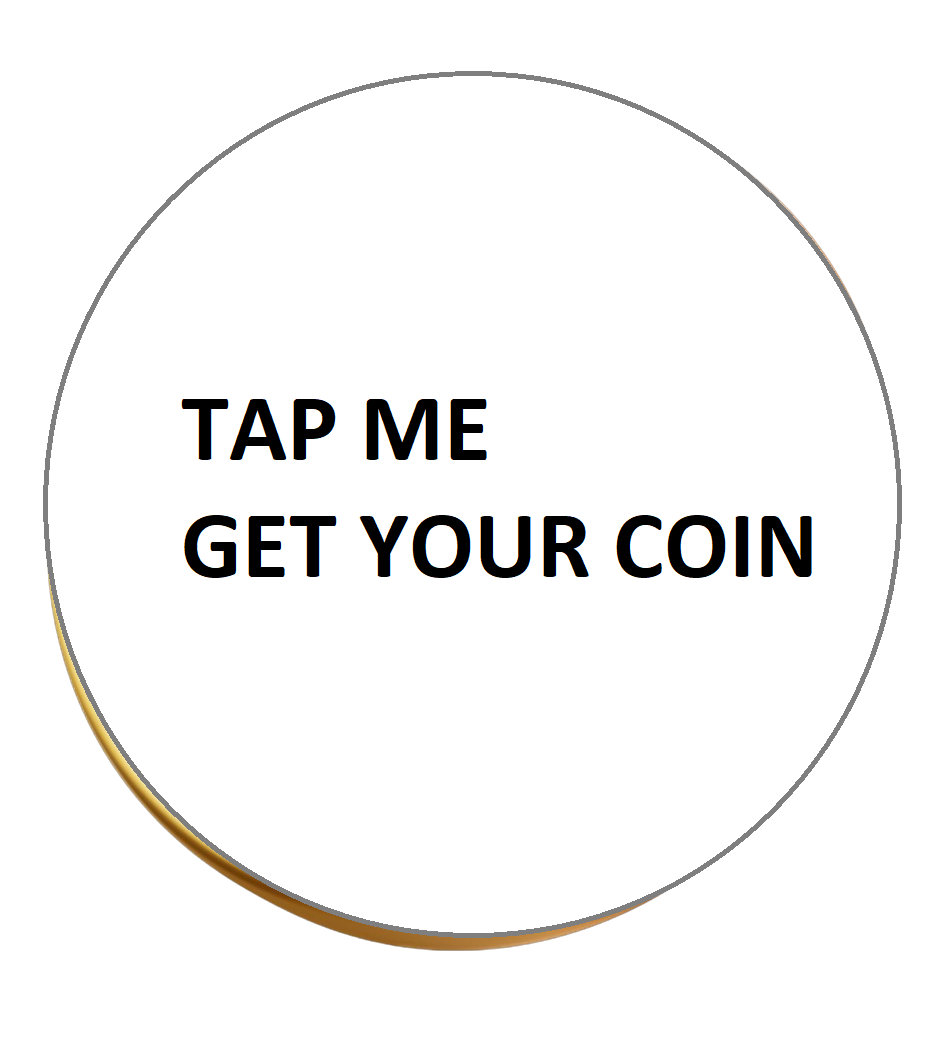
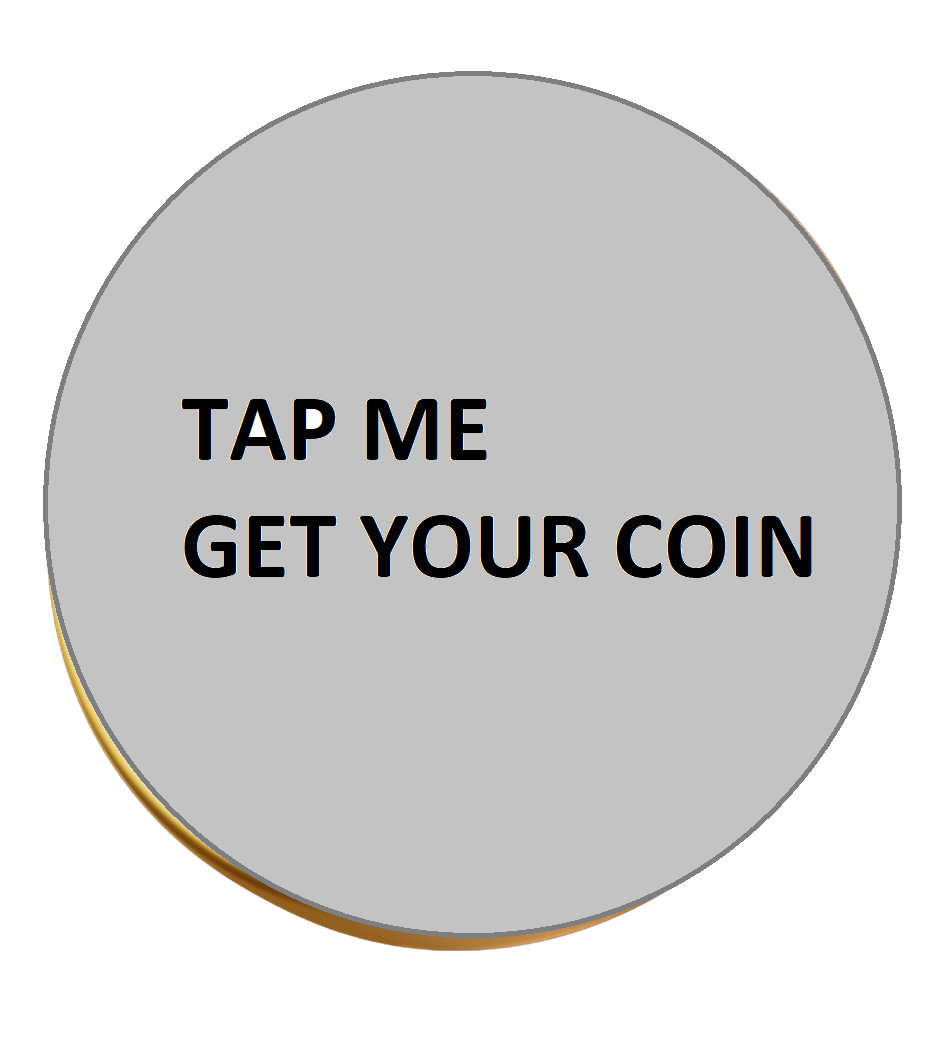
update

diff --git a/src/pages/TapHome.js b/src/pages/TapHome.js
@@ -2,7 +2,7 @@ import React, { useState, useEffect, useRef, useContext } from "react";
 import styled, { keyframes } from "styled-components";
 import "../App.css";
 import coinsmall from "../images/coinsmall.webp";
-import tapmecoin from "../images/tapmem.png";
+import tapmecoin from "../images/coinsmall.webp";
 import bronze from "../images/bronze.webp";
 import silver from "../images/silver.webp";
 import gold from "../images/gold.webp";
